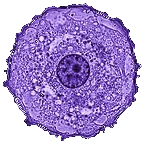
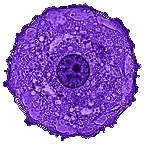
Aprofunda o violeta, como em lâmina corada (3.1.1)
O violeta da 3.1.0 ficou lavanda. A rampa das células fica mais escura
e saturada (cristal violeta, hematoxilina), e o destaque passa a
#9B5DE5, o mais vivo que ainda dá 4,5:1 como texto sobre os cards. Os
botões ganham o tecido de células em violeta profundo, com texto claro
(8:1; o escuro ficaria em 2:1). O ícone acompanha a nova cor e muda
para -v6, para o Android refazê-lo.

Claude-Session: https://claude.ai/code/session_01SJk7ERo6h8gM1UeUr36oZP

diff --git a/css/styles.css b/css/styles.css
@@ -17,10 +17,10 @@
   --bone-3:  #6e5c52;  /* placeholder, desligado */
   /* Lente: violeta de contraste, o corante da lâmina. É a cor do que o app
      destaca (marcas, rótulos, próxima série, botões); o resto é tecido. */
-  --corante:    #A67BE6;
-  --corante-hi: #D2B8F6;
-  --corante-lo: #6A45A8;
-  --on-corante: #140A24;  /* texto sobre o corante */
+  --corante:    #9B5DE5;  /* o mais vivo com 4,5:1 sobre os cards, para servir de texto */
+  --corante-hi: #C9A2FF;
+  --corante-lo: #5E22B0;  /* cristal violeta: botões, só com texto claro */
+  --on-corante: #F6EEFF;  /* texto sobre o corante */
   /* Rampa térmica: só o corpo (esforço, calor) */
   --t1: #2A1846; --t2: #7A1C5E; --t3: #D83A2E; --t4: #FF9A1F; --t5: #FFF2D2;
   --ramp: linear-gradient(90deg, var(--t1), var(--t2) 30%, var(--t3) 60%, var(--t4) 85%, var(--t5));
@@ -107,7 +107,7 @@ body.resting main { padding-bottom: calc(160px + var(--safe-bottom)); }
 /* Varredura (02): feixe de luz da lente que desce ao entrar numa tela. */
 .beam { position: fixed; left: 0; right: 0; height: 3px; z-index: 30; pointer-events: none; opacity: 0;
   background: linear-gradient(90deg, transparent, var(--corante) 15%, var(--corante-hi) 50%, var(--corante) 85%, transparent);
-  box-shadow: 0 0 20px 6px rgb(166 123 230 / .35), 0 -40px 60px -20px rgb(166 123 230 / .18); }
+  box-shadow: 0 0 20px 6px rgb(155 93 229 / .35), 0 -40px 60px -20px rgb(155 93 229 / .18); }
 
 /* ===== TIPOGRAFIA ===== */
 h2 {
@@ -142,8 +142,8 @@ h3 {
 .btn:active { transform: translateY(1px); }
 .btn:disabled { opacity: .45; cursor: not-allowed; }
 .btn-primary {
-  background: var(--corante); color: var(--on-corante); border-color: var(--corante);
-  background-image: linear-gradient(180deg, rgb(255 246 222 / .3), transparent 45%, rgb(120 80 30 / .22)), url(../assets/tex/botao.webp);
+  background: var(--corante-lo); color: var(--on-corante); border-color: var(--corante);
+  background-image: linear-gradient(180deg, rgb(255 255 255 / .12), transparent 45%, rgb(20 4 40 / .3)), url(../assets/tex/botao.webp);
   background-size: 100% 100%, 256px 256px;
 }
 .btn-primary svg { stroke-width: 2; }
@@ -184,7 +184,7 @@ h3 {
 }
 .ghost-number {
   position: absolute; right: 14px; bottom: 6px; pointer-events: none;
-  font-family: var(--disp); font-weight: 900; font-stretch: 60%; font-size: 72px; line-height: .8; color: rgb(166 123 230 / .08);
+  font-family: var(--disp); font-weight: 900; font-stretch: 60%; font-size: 72px; line-height: .8; color: rgb(155 93 229 / .08);
 }
 .card-actions { position: absolute; top: 10px; right: 10px; display: flex; gap: 6px; z-index: 2; }
 .icon-act {
@@ -288,12 +288,12 @@ input[type=number] { -moz-appearance: textfield; appearance: textfield; }
 .cell .rep { filter: grayscale(.85) brightness(.5); opacity: .55; transform: scale(.78); transition: filter .25s, opacity .25s, transform .25s; }
 .cell .mit { opacity: 0; }
 .set.next .cell .rep { filter: none; opacity: 1; transform: scale(calc(.8 + var(--beat) * .1)); }
-.set.next .cell::before { content: ""; position: absolute; inset: 4px; border-radius: 50%; box-shadow: 0 0 calc(6px + var(--beat) * 10px) rgb(166 123 230 / calc(.15 + var(--beat) * .3)); }
+.set.next .cell::before { content: ""; position: absolute; inset: 4px; border-radius: 50%; box-shadow: 0 0 calc(6px + var(--beat) * 10px) rgb(155 93 229 / calc(.15 + var(--beat) * .3)); }
 .set.done .cell .rep { opacity: 0; }
-.set.done .cell .mit { opacity: 1; filter: drop-shadow(0 0 4px rgb(166 123 230 / .35)); }
+.set.done .cell .mit { opacity: 1; filter: drop-shadow(0 0 4px rgb(155 93 229 / .35)); }
 .cell:focus-visible { outline-offset: 0; }
 .ripple { position: absolute; inset: 5px; border-radius: 50%; border: 1.5px solid var(--corante); pointer-events: none; opacity: 0; }
-.spark { position: absolute; width: 8px; height: 8px; margin: -4px 0 0 -4px; border-radius: 50%; background: var(--corante-hi); box-shadow: 0 0 10px 2px var(--corante), 0 0 22px 4px rgb(166 123 230 / .4); pointer-events: none; z-index: 5; }
+.spark { position: absolute; width: 8px; height: 8px; margin: -4px 0 0 -4px; border-radius: 50%; background: var(--corante-hi); box-shadow: 0 0 10px 2px var(--corante), 0 0 22px 4px rgb(155 93 229 / .4); pointer-events: none; z-index: 5; }
 .rest-btn { margin: 12px 0 0; min-height: 46px; font-size: 13px; }
 .hide-ex { display: none; margin: 8px 0 0; min-height: 44px; font-size: 12px; }
 .ex.all-done .hide-ex { display: flex; }
@@ -303,14 +303,14 @@ input[type=number] { -moz-appearance: textfield; appearance: textfield; }
   display: none; width: 100%; align-items: center; gap: 10px; padding: 10px 12px; min-height: 52px; text-align: left;
   border: 1px solid var(--vein); background: var(--flesh-1); border-radius: 22px 2px 22px 2px;
 }
-.cap .dot { width: 30px; height: 30px; flex-shrink: 0; filter: drop-shadow(0 0 5px rgb(166 123 230 / .35)); }
+.cap .dot { width: 30px; height: 30px; flex-shrink: 0; filter: drop-shadow(0 0 5px rgb(155 93 229 / .35)); }
 .cap .dot img, .mit-ico { width: 100%; height: 100%; display: block; }
 .cap b { font-family: var(--disp); font-weight: 750; font-stretch: 78%; font-size: 15px; text-transform: uppercase; white-space: nowrap; overflow: hidden; text-overflow: ellipsis; min-width: 0; }
 .cap .cap-meta { margin-left: auto; font-size: 8.5px; letter-spacing: .06em; color: var(--bone-2); white-space: nowrap; text-transform: uppercase; }
 .ex.cyst > .card { display: none; }
 .ex.cyst > .cap { display: flex; }
 .seal { position: absolute; left: 0; right: 0; top: 50%; height: 2px; margin-top: -1px; z-index: 6; pointer-events: none; opacity: 0;
-  background: linear-gradient(90deg, transparent, var(--corante-hi) 20%, #f6efff 50%, var(--corante-hi) 80%, transparent); box-shadow: 0 0 18px 4px rgb(210 184 246 / .6); }
+  background: linear-gradient(90deg, transparent, var(--corante-hi) 20%, #f6efff 50%, var(--corante-hi) 80%, transparent); box-shadow: 0 0 18px 4px rgb(201 162 255 / .6); }
 
 /* Cronômetro grande (cardio) */
 .timer {

diff --git a/js/screens/workout.js b/js/screens/workout.js
@@ -86,8 +86,8 @@ function paint(el) {
   html += '<div class="sess">' +
     '<button class="clock' + (watch.running ? '' : ' paused') + '" type="button" id="clock" aria-label="Tempo de sessão. Toque para pausar ou continuar.">' +
       '<svg viewBox="0 0 220 92" fill="none" aria-hidden="true">' +
-        '<path d="M22 46c1-17 38-31 82-31s88 13 88 31-42 31-86 31-85-14-84-31z" stroke="#6A45A8" stroke-opacity=".5"/>' +
-        '<path d="M14 50c4-22 48-38 96-37s92 16 90 36" stroke="#6A45A8" stroke-opacity=".3" stroke-dasharray="2 5"/>' +
+        '<path d="M22 46c1-17 38-31 82-31s88 13 88 31-42 31-86 31-85-14-84-31z" stroke="#5E22B0" stroke-opacity=".5"/>' +
+        '<path d="M14 50c4-22 48-38 96-37s92 16 90 36" stroke="#5E22B0" stroke-opacity=".3" stroke-dasharray="2 5"/>' +
       '</svg>' +
       '<span id="workoutTimer">' + fmtTime(watch.seconds) + '</span>' +
     '</button>' +

diff --git a/sw.js b/sw.js
@@ -21,7 +21,7 @@
 // rede com elas.
 
 // O prefixo 'nerv2-' fica: é com ele que a limpeza reconhece os caches antigos.
-const VERSION = 'nerv2-v3.1.0';
+const VERSION = 'nerv2-v3.1.1';
 const CACHE = VERSION;
 
 // Rede lenta não pode segurar a abertura do app. Passou disto, o cache assume.
@@ -54,10 +54,10 @@ const PRECACHE = [
   './js/screens/historico.js',
   './js/screens/stats.js',
   './js/screens/ajustes.js',
-  './assets/icon-192-v5.png',
-  './assets/icon-512-v5.png',
-  './assets/icon-maskable-512-v5.png',
-  './assets/apple-touch-icon-v5.png',
+  './assets/icon-192-v6.png',
+  './assets/icon-512-v6.png',
+  './assets/icon-maskable-512-v6.png',
+  './assets/apple-touch-icon-v6.png',
   './assets/fonts/anybody-var-latin.woff2',
   './assets/fonts/martian-mono-var-latin.woff2',
   './assets/tex/membrana.webp',

diff --git a/index.html b/index.html
@@ -12,8 +12,8 @@
 <title>NerV — Neural Engine Routine</title>
 
 <link rel="manifest" href="manifest.webmanifest">
-<link rel="icon" type="image/png" sizes="192x192" href="assets/icon-192-v5.png">
-<link rel="apple-touch-icon" href="assets/apple-touch-icon-v5.png">
+<link rel="icon" type="image/png" sizes="192x192" href="assets/icon-192-v6.png">
+<link rel="apple-touch-icon" href="assets/apple-touch-icon-v6.png">
 <link rel="preload" href="assets/fonts/anybody-var-latin.woff2" as="font" type="font/woff2" crossorigin>
 <link rel="preload" href="assets/fonts/martian-mono-var-latin.woff2" as="font" type="font/woff2" crossorigin>
 <link rel="stylesheet" href="css/styles.css">

diff --git a/js/app.js b/js/app.js
@@ -16,7 +16,7 @@ import { setBeforeLeave } from './router.js';
 
 // Anda junto com o VERSION do sw.js. A tela de Ajustes mostra os dois lado a
 // lado justamente para denunciar quando o service worker fica para trás.
-export const VERSION = '3.1.0';
+export const VERSION = '3.1.1';
 window.__NERV_VERSION__ = VERSION;
 
 // O resgate de emergência do index.html recarrega com ?nerv-reset=... para

diff --git a/docs/redesign/texturas/processar.py b/docs/redesign/texturas/processar.py
@@ -108,10 +108,10 @@ t = normaliza(luma(a), 1, 99)
 salva(rampa(t, ['#c09a5c', '#d2b077', '#dfc28d', '#ead1a2']), 'osso.webp', 74)
 
 # Botões principais (desde a 3.1): o mesmo tecido de células do fundo do app,
-# em violeta claro, repetido sem emenda. Substitui o osso esponjoso.
+# em violeta profundo (cristal violeta), repetido sem emenda; o texto é claro. Substitui o osso esponjoso.
 a = sem_emenda(carrega('membrana.jpg', (512, 512)))
 t = normaliza(luma(a), 3, 99.7) ** .8
-img = Image.fromarray(rampa(t, ['#7a52bb', '#9472d0', '#ae90df', '#c8b0ee']).astype(np.uint8))
+img = Image.fromarray(rampa(t, ['#3e1280', '#521c9e', '#6629b8', '#7a3acf']).astype(np.uint8))
 (AQUI.parents[2] / 'assets' / 'tex').mkdir(parents=True, exist_ok=True)
 img.save(AQUI.parents[2] / 'assets' / 'tex' / 'botao.webp', 'WEBP', quality=74, method=6)
 print('botao.webp       512x512')
@@ -141,7 +141,7 @@ def sem_fundo(img, lo=10, hi=60):
 # Violeta de contraste (desde a 3.1): as células aparecem como numa lâmina
 # corada. O filtro mapeia o brilho de cada ponto numa rampa violeta e mantém
 # a transparência, então o detalhe da imagem original fica todo lá.
-CORANTE = ['#000000', '#1a0c33', '#4f2a94', '#9a72dc', '#efe4ff']
+CORANTE = ['#000000', '#170530', '#3f1088', '#7f35d6', '#dcb8ff']
 
 
 def corante(img):
@@ -174,8 +174,8 @@ salva_rgba(sem_fundo(crom, 14, 70), TEX / 'cromossomos.webp', 74)
 
 # Ícones do app: uma célula sozinha, antes da divisão, em violeta, sobre o
 # fundo preto-sangue. Histórico: v3 mitose (ambígua quando pequena), v4 célula
-# em âmbar, v5 célula em violeta.
-# O nome leva a versão do desenho (-v5): o Android só troca o ícone do app
+# em âmbar, v5 célula em violeta claro, v6 violeta profundo de lâmina corada.
+# O nome leva a versão do desenho (-v6): o Android só troca o ícone do app
 # instalado quando o endereço no manifesto muda. Desenho novo, sufixo novo, e
 # atualize manifesto, index e sw.js. O maskable deixa a zona segura (80% do
 # centro) para os recortes redondos do Android.
@@ -187,10 +187,10 @@ def icone(tam, ocupa, destino):
     # 200 cores com pontilhado: um terço do tamanho, sem diferença visível.
     base.quantize(colors=200, method=Image.Quantize.MEDIANCUT, dither=Image.Dither.FLOYDSTEINBERG).save(destino, 'PNG', optimize=True)
     print(f'{destino.name:22} {tam}x{tam}  {destino.stat().st_size // 1024} KB')
-icone(192, .92, APP / 'icon-192-v5.png')
-icone(512, .92, APP / 'icon-512-v5.png')
-icone(512, .78, APP / 'icon-maskable-512-v5.png')
-icone(180, .86, APP / 'apple-touch-icon-v5.png')
+icone(192, .92, APP / 'icon-192-v6.png')
+icone(512, .92, APP / 'icon-512-v6.png')
+icone(512, .78, APP / 'icon-maskable-512-v6.png')
+icone(180, .86, APP / 'apple-touch-icon-v6.png')
 
 # Embute tudo na maquete (arquivo único, abre em qualquer lugar). No app, os .webp vão como arquivos.
 import base64

diff --git a/docs/redesign/DECISOES.md b/docs/redesign/DECISOES.md
@@ -6,7 +6,8 @@ Referência visual e de movimento: [`maquete.html`](maquete.html).
 
 - **Nome:** NerV (sem NERv2 / NERV3).
 - **Direção:** Espécime em Metabolismo. Fontes Anybody e Martian Mono. A paleta nasceu D3 (Medula, cor de osso); desde a 3.1 a cor de destaque é o **violeta de contraste**, o corante da lâmina, e as imagens de célula passam por esse filtro.
-- **Botões principais:** o mesmo tecido de células do fundo do app, em violeta claro (antes, osso esponjoso).
+- **Botões principais:** o mesmo tecido de células do fundo do app, em violeta profundo (cristal violeta) com texto claro (antes, osso esponjoso; na 3.1.0, violeta claro).
+- **Tom do violeta (3.1.1):** saturado e escuro, como em lâmina corada de verdade. O destaque é `#9B5DE5`, o mais vivo que ainda dá 4,5:1 de contraste como texto sobre os cards.
 - **Elemento de marca:** ~~ósteon~~ (não funcionou como ícone). A série é uma **célula que se divide** ao ser fechada; a Mutação mostra os cromossomos se alinhando antes da divisão.
 - **Mascote:** a bomba sai e não volta.
 - **Descanso:** começa só quando o usuário pede (botão), como o código já faz. O README será corrigido.

diff --git a/docs/redesign/TEXTURAS.md b/docs/redesign/TEXTURAS.md
@@ -23,7 +23,7 @@ O ósteon saiu. A série passa a ser uma célula que se divide ao ser fechada.
 - `cromossomos-1.jpg` → placa metafásica que acende na Mutação, antes da divisão;
 - `nucleo-2.jpg` → telas vazias.
 
-Desde a 3.1, todas as imagens de célula passam por um filtro violeta (`corante()` no `processar.py`): o brilho de cada ponto vira um tom da rampa violeta e a transparência é mantida. O ícone é a célula em violeta (`-v5`), e o botão principal usa a textura da membrana em violeta claro (`botao.webp`). O osso esponjoso ficou só na maquete.
+Desde a 3.1, todas as imagens de célula passam por um filtro violeta (`corante()` no `processar.py`): o brilho de cada ponto vira um tom da rampa violeta e a transparência é mantida. O ícone é a célula em violeta (`-v6` desde a 3.1.1), e o botão principal usa a textura da membrana em violeta profundo (`botao.webp`). Na 3.1.1 a rampa ficou mais escura e saturada, inspirada em cristal violeta e hematoxilina. O osso esponjoso ficou só na maquete.
 
 Guardadas sem uso, para variações futuras: `mitose-2.jpg`, `cromossomos-2.jpg`, `nucleo-1.jpg`.
 

diff --git a/README.md b/README.md
@@ -5,7 +5,7 @@ Diário de treino e cardio para levar para a academia. PWA instalável,
 nenhuma dependência externa em tempo de execução.
 
 <p align="center">
-  <img src="assets/icon-192-v5.png" alt="NerV" width="96" height="96">
+  <img src="assets/icon-192-v6.png" alt="NerV" width="96" height="96">
 </p>
 
 O cenário que dita todas as decisões deste repositório é concreto: uma academia
@@ -363,8 +363,8 @@ publicar uma mudança:
 2. **Arquivo novo em `js/` ou `assets/`?** Acrescente ao `PRECACHE` do `sw.js`,
    senão ele não fica disponível offline.
 
-   **Ícone novo?** Troque também o **nome** dos arquivos (o sufixo `-v5` vira
-   `-v6`) no manifesto, no `index.html` e no `sw.js`. O Android só atualiza o
+   **Ícone novo?** Troque também o **nome** dos arquivos (o sufixo `-v6` vira
+   `-v7`) no manifesto, no `index.html` e no `sw.js`. O Android só atualiza o
    ícone do app instalado quando o endereço no manifesto muda; trocar só a
    imagem mantém o ícone antigo na tela inicial.
 
